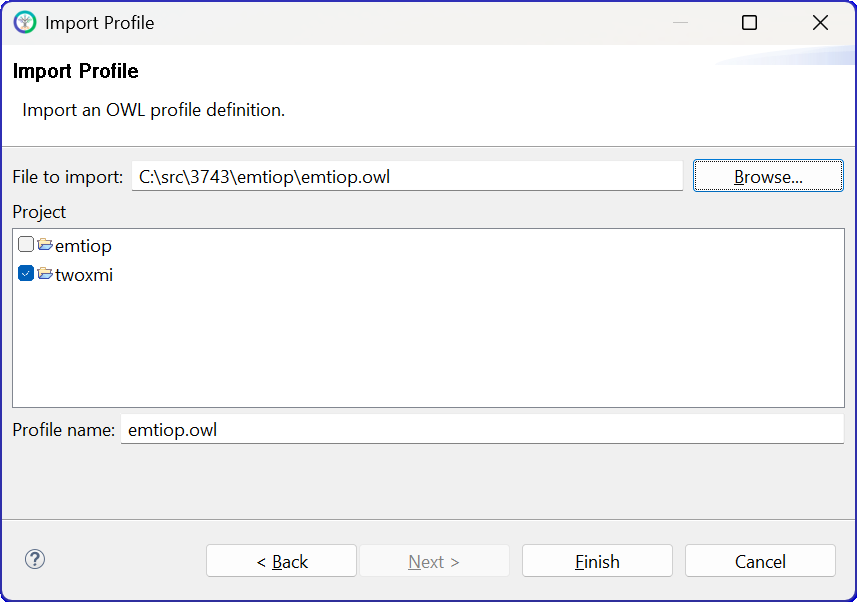
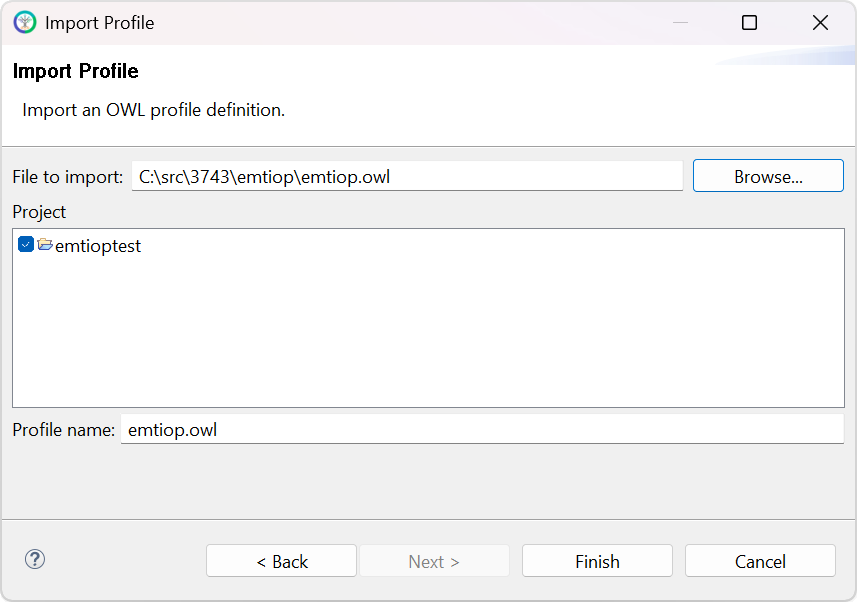
revised profile maintenance roadmap to rely on a single qea file*

diff --git a/docs/Roadmap.rst b/docs/Roadmap.rst
@@ -71,13 +71,13 @@ This roadmap applies to stakeholders that primarily manage CIM UML and profiles.
 
 These files, tools, and on-line documents provide the initial knowledge 
 base to perform segments of the workflow shown below. In the upper left, 
-the file *CIM_Grid_18v15.xmi* [1]_ has been reduced in size, by deleting the 
+the file *CIM_Grid_18v15.qea* [1]_ has been reduced in size, by deleting the 
 unnecesary (for EMT) *Enterprise* and *Market* packages. For *CIMTool*, it 
 was also necessary to delete profile packages distributed within the base 
 CIM file by the CIM Users Group. The three shaded files are key items 
 maintained on the open-source software site for P3743: 
  
-#. *Emtiop.xmi* contains the CIM extensions for EMT, output from  the UML editor and input to *CIMTool*. This file is relatively small and kept under version control. It should be possible to use this extension file with future versions of the base CIM. The format is a variant of *xml*.
+#. *CIM_Grid_18v15_Emtiop.qea* contains the CIM extensions for EMT, added to the base CIM, then saved from the UML editor for input to *CIMTool*. This file is kept under version control. The format is an SQLite3 database.
 #. *emtiop.owl* is the profile for EMT. This is created by selecting classes and attributes from the base CIM with extensions in *CIMTool*. You should check example CIM RDF instance files, some of them listed at the lower left, against the profile and resolve any errors.
 #. *emtiop.html* documents the classes and attributes used in the profile for EMT. It is built automatically from *CIMTool* and included in this on-line documentation as part of :ref:`target-cim-profile`. 
 
@@ -98,94 +98,83 @@ importing the profile from version control, and checking one of the
 example instance files against the profile. 
 
 #. Extract the :ref:`target-repository` if you haven't already.
-#. Start *CIMTool*. Version *2.3.0 RC11* was used in this demonstration.
+#. Start *CIMTool*. Version *2.3.0* was used in this demonstration.
 #. Use the *File/New/CIMTool Project* menu command.
-#. On the page **New CIMTool Project**, name the project *twoxmi*. It will typically create the workspace in *C:\\CIMTool-2.3.0-RC11\\workspace\\twoxmi*. Click *Next >*.
+#. On the page **New CIMTool Project**, name the project *emtioptest*. It will typically create the workspace in *C:\\CIMTool-2.3.0\\workspace\\emtioptest*. Click *Next >*.
 #. On the page **Project Copyright Templates Configuration**, click the option *Select custom copyrights*. 
    Browse to the multi-line and single-line template files, as provided in the *emtiop* subdirectory of this repository,
-   as shown below. Then click *Next >*.
+   as shown below. Then click *Finish*.
 
 .. image:: assets/CIMTool0_copyrights.png
 
-6. On the page **Import Initial Schema**:
+6. With *emtioptest* selected in the *Project Explorer*, use the *Project/Properties* menu command. 
+   Set the check boxes for *Enable self-healing ...* and *During import merge shadow/mixin extensions ...*, as
+   shown below. Click *Apply and Close*.
 
-   - Browse to the *CIM_Grid_18v15.xmi* file containing the base CIM schema, which includes the *Grid18v15* package.
-   - Enter the *Namespace URI* as *http://www.ucauig.org/grid18v15#*.
-   - Leave the *During import merge shadow class extensions* and *Enable self-healing* options checked if possible (these may be grayed out). 
+.. image:: assets/CIMTool0_checkboxes.png
+
+7. Right-click on the *Schema* item under the *emtioptest* workspace in *Project Explorer*. 
+   Click *Import* on the pop-up menu and then select *CIMTool/Import Schema*. On the page **Import Schema**:
+
+   - Browse to the *CIM_Grid_18v15_Emtiop_01v01.qea* file containing the extended CIM schema, which includes the *Grid18v15* and *Emtiop01v01* packages.
+   - Enter the *Namespace URI* for the base CIM as *http://www.ucauig.org/grid18v15#*.
+   - Leave the *During import merge shadow/mixin extensions* and *Enable self-healing* options checked if they appear. 
    - Turn off the *CIMTool Schema Model Validation Report*. 
    - The page should look similar to the screen shot below. Click *Finish*.
 
 .. image:: assets/CIMTool1.png
 
-7. The *Project Explorer* should show the imported CIM base schema, as shown below.
+8. The *Project Explorer* should show the imported CIM schema with extensions, as shown below.
 
 .. image:: assets/CIMTool2.png
 
-8. Use either the archived CIM extensions in *Emtiop.xmi*, or export your own *Emtiop.xmi* from the UML editing tool (*EA* or an alternative). 
-   This same procedure was used to create the base *CIM_Grid_18v15.xmi* file.
-
-   - In *EA*, select the <<CIMExtension>> Emtiop* pacakge in the *Browser*, *Project* tab on the left-hand side of the application.
-   - Invoke the *Export / Other Formats* menu command from the *Publish* tab in the ribbon.
-   - Select the *UML 1.4 (XMI 1.2)* export type.
-   - Select **only** the *Format XML Output* and *Exclude EA Extensions* options. Your dialog should be similar to that shown below. 
-     Verify that the *Package* at the top is *Emtiop*. Verify that *Filename* shows your desired output file.
-   - Click *Export* and then you may exit *EA*
-
-.. image:: assets/EA1.png
-
-9. The next step is to add the CIM extension *xmi* file to the base CIM *xmi* file in *CIMTool*.
-10. Right-click on the *Schema* item under the *twoxmi* workspace in *Project Explorer*. Click *Import* on the pop-up menu and then select *Import Schema*, as shown below.
-
-.. image:: assets/CIMTool3.png
-
-11. Click *Next* to bring up the **Import Schema** page, similar to item 6. Leave the options as before, 
-    but browse to *Emtiop.xmi* in your local copy of the GitHub repository. Enter the *Namespace URI* 
-    as *http://opensource.ieee.org/emtiop01v01#*. The page should be similar to the screen shot below. 
-    Then click *Finish*.
-
-.. image:: assets/CIMTool4.png
-
-12. The *Project Explorer* and *Project Browser* should reflect the content of both *xmi* files, as shown below.
-
-.. image:: assets/CIMTool5.png
-
-13. Right-click on the *Profiles* item under the *twoxmi* workspace in *Project Explorer*. Click *Import* on the pop-up menu 
-    and then select *Import Profile*. Click *Next*. This brings up the **Import Profile** page. Click *Browse* and navigate to the 
-    archived *emtiop.owl* file as shown below. Then click *Finish*.
+9. Right-click on the *Profiles* item under the *emtiop* workspace in *Project Explorer*. Click *Import* on the pop-up menu 
+   and then select *CIMTool/Import Profile*. Click *Next*. This brings up the **Import Profile** page. Click *Browse* and navigate to the 
+   archived *emtiop.owl* file as shown below. Then click *Finish*.
 
 .. image:: assets/CIMTool6.png
 
-14. This imports and verifies the profile against the loaded schema of base CIM with extensions. Correct any errors
+10. This imports and verifies the profile against the loaded schema of base CIM with extensions. Correct any errors
     reported. These are generally caused by mismatches in different versions of the profile and CIM extension, which
     may require some iterations to resolve. The profile import should produce no errors before taking the next step.
 
-15. Right-click on the *Instances* item under the *twoxmi* workspace in *Project Explorer*. Click *Import* on 
+11. Double-click on the name *Profiles/emtiop.owl* in the *Project Browser*, then click on the *Profile Summary* tab
+    for *emtiop.owl* that appears in the middle of the program window. Click the *Edit* button next to the *Namespace*
+    edit field, and enter the value *http://opensource.ieee.org/emtiop0vp01#*. This will be the Profile namespace,
+    which does not affect RDF XML and TTL files, but may affect other implementations of CIM not used for EMT. Note
+    that the **v** in the extension namespace is replace with **p** in the profile namespace, as they should not
+    be the same. The program window should appear as below, when this step has been completed.
+
+.. image:: assets/CIMTool6_ns.png
+
+12. Use *File/Save* or press *Ctrl-S* to save and rebuild the profile with its new profile namespace.
+
+13. Right-click on the *Instances* item under the *emtiop* workspace in *Project Explorer*. Click *Import* on 
     the pop-up menu and then select *Import Model (CIM/XML file)*. Then click *Next*. This brings up the **Import a Model** page.
-    Click *Browse* and navigate to one of the example CIM RDF files, in *xml* format, as shown below. [2]_ The *Namespace URI* should be
-    left as shown. The correct check boxes for *Project* and *Profile* should be selected. Then click *Next*. 
+    Click *Browse* and navigate to one of the example CIM RDF files, in *xml* format, as shown below. [2]_ The *Namespace URI* 
+    has been edited to match the profile namespace from step 11, but this is not necessary when importing CIM/XML instance files. 
+    In future instance file imports, you may leave the *Namespace URI* field unchanged.
+    The correct check boxes for *Project* and *Profile* should be selected, as below. Then click *Next*. 
 
 .. image:: assets/CIMTool7.png
 
-16. The **Model Details** page should have a proper *Model file name* filled in. If you are re-importing the same model in
+14. The **Model Details** page should have a proper *Model file name* filled in. If you are re-importing the same model in
     the process of fixing errors, select the check box to *Replace existing model*. For a first-time import of that model,
     the check box should be disabled. Click *Finish*.
 
-17. This imports and verifies the network model against the profile, including CIM extensions. Any errors should be
+15. This imports and verifies the network model against the profile, including CIM extensions. Any errors should be
     resolved before testing other network models, and before deploying any code. This may require iterations in the
     CIM extensions, the profile, and/or the code used to create the network model *xml* files from *raw* and *dyr* files.
 
 From this point, please consult the *CIMTool* documentation and the *CIM Modeling Guide*
 for advice on how to proceed.
 
-.. [1] Instead of importing two separate *xmi* files to *CIMTool*, it is 
-   also possible to import one *CIM_Grid_18v15_Emtiop.qea* file. This 
-   combined *qea* file is not under version control; a developer would have 
-   to merge the two separate *xmi* files into a single *qea* file using the 
-   commercial UML editor. This approach can be more efficient in working on 
-   CIM extensions and profiles in a single workflow. At significant 
-   milestones, be sure to export *Emtiop.xmi* from the UML editor for version 
-   control. We keep two *xmi* files under version control because only the 
-   smaller *Emtiop.xmi* is expected to change frequently.
+.. [1] Instead of importing one *qea* file to *CIMTool*, it is 
+   also possible to import two *xmi* files, one for the Grid base CIM and
+   another for the Emtiop extension CIM. This is the conventional way of
+   maintaining CIM UML extensions for CIMTool, but it requires more
+   classes, associations, and dependencies to maintain the extension *xmi*.
+   Most CIM modelers currently use the single *qea* file approach.
    
 .. [2] The example *xml* files were generated in the directory shown by
    completing the :ref:`target-roadmap-users` Roadmap in that directory. 
